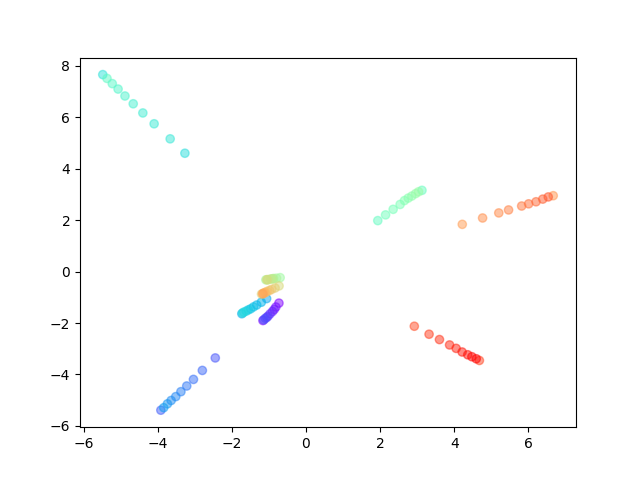
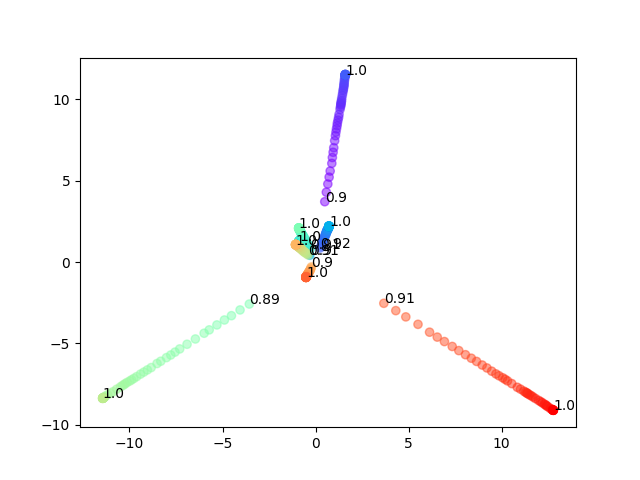
draw multiple layers in optim process

diff --git a/hw1/vis/hw1-2/plot_optim_process.py b/hw1/vis/hw1-2/plot_optim_process.py
@@ -6,32 +6,64 @@ import numpy as np
 from model.model import CNN2 
 from sklearn.decomposition import PCA
 import matplotlib.pyplot as plt
+import matplotlib.cm as cm
 
 if __name__ == '__main__':
     
     root_folder = os.path.join('../../saved/1-2-1/')
-    weight_list = []
+    w_list = []
+    cw_list = [] # convolution weight
+    acc = [] # record the acc
 
     for base_folder in os.listdir(root_folder):
         # we need to iterate each epoch by order
         file_list = os.listdir(os.path.join(root_folder, base_folder))
         # filter filenames so that it only contains checkpoint_x.pth
         file_list = list(filter(lambda x: x.startswith('checkpoint'), file_list))
+        
         for file in file_list:
             checkpoint = torch.load(os.path.join(root_folder, base_folder, file))
             state = checkpoint['state_dict']
+
+            logger = checkpoint['logger']
+            acc.append(logger[-1]['my_metric']) # take the last one
+            
             w_arr = [w.flatten() for key, w in state.items()]
             w_flat = torch.cat(w_arr, dim = 0)
-            weight_list.append(w_flat.data.cpu().numpy())
-
-    weight_list = np.array(weight_list)
+            w_list.append(w_flat.data.cpu().numpy())
+            # for layer 1
+            cw_arr = [w.flatten() for key, w in state.items() if key.startswith('conv.3.')]
+            cw_flat = torch.cat(cw_arr, dim = 0)
+            cw_list.append(cw_flat.data.cpu().numpy())
+    
+    plt.figure()
+    fig, ax = plt.subplots()
+    w_list = np.array(w_list)
     pca = PCA(n_components = 2)
-
-    weight_list = pca.fit_transform(weight_list)
-
-    x = [x for (x, y) in weight_list]
-    y = [y for (x, y) in weight_list]
-    color = np.linspace(0, 1, len(weight_list))
+    w_list = pca.fit_transform(w_list)
+    x = [x for (x, y) in w_list]
+    y = [y for (x, y) in w_list]
+    color = np.linspace(0, 1, len(w_list))
     plt.scatter(x, y, cmap = 'rainbow', c = color, alpha=0.5)
-    logger = checkpoint['logger']
+
+    cmap = cm.get_cmap('rainbow')
+    for i, n in enumerate(acc):
+        if i % 50 == 0 or i % 50 == 49:
+            ax.annotate(round(n, 2), (x[i], y[i]))
     plt.savefig('weight_scatter.png')
+
+    plt.figure()
+    fig, ax = plt.subplots()
+    cw_list = np.array(cw_list)
+    pca = PCA(n_components = 2)
+    cw_list = pca.fit_transform(cw_list)
+    x = [x for (x, y) in cw_list]
+    y = [y for (x, y) in cw_list]
+    color = np.linspace(0, 1, len(cw_list))
+    plt.scatter(x, y, cmap = 'rainbow', c = color, alpha=0.5)
+
+    cmap = cm.get_cmap('rainbow')
+    for i, n in enumerate(acc):
+        if i % 50 == 0 or i % 50 == 49:
+            ax.annotate(round(n, 2), (x[i], y[i]))
+    plt.savefig('conv_weight_scatter.png')

diff --git a/hw1/train.py b/hw1/train.py
@@ -9,6 +9,19 @@ import model.model as module_arch
 from trainer import Trainer
 from utils import Logger
 
+def handle_args(config, args):
+    # use argument to overwrite the original config setting
+    if args.type != None:
+        config['arch']['type'] = args.type
+        config['name'] = args.type
+    if args.name != None:
+        config['name'] = args.name
+    if args.save != None:
+        config['trainer']['save_dir'] = args.save
+    if args.epoch != None:
+        config['trainer']['epochs'] = int(args.epoch)
+
+    return config
 
 def get_instance(module, name, config, *args):
     return getattr(module, config[name]['type'])(*args, **config[name]['args'])
@@ -52,15 +65,18 @@ if __name__ == '__main__':
                            help='indices of GPUs to enable (default: all)')
     parser.add_argument('--type', default=None, type=str,
                            help='model type')
+    parser.add_argument('--name', default=None, type=str,
+                           help='model name')
+    parser.add_argument('--save', default=None, type=str,
+                           help='save dir')
+    parser.add_argument('--epoch', default=None, type=str,
+                           help='epoch number')
     args = parser.parse_args()
 
     if args.config:
         # load config file
         config = json.load(open(args.config))
-        # use argument to overwrite the original config setting
-        if args.type != None:
-            config['name'] = args.type
-            config['arch']['type'] = args.type
+        config = handle_args(config, args)
         path = os.path.join(config['trainer']['save_dir'], config['name'])
     elif args.resume:
         # load config file from checkpoint, in case new config file is not given.

diff --git a/hw1/utils/logger.py b/hw1/utils/logger.py
@@ -23,4 +23,8 @@ class Logger:
         return len(self.entries)
         
     def __getitem__(self, key):
-        return self.entries[key]
+        if key == -1: # indicate that we want to get the last one
+            return self.entries[self.__len__()]
+        else:
+            return self.entries[key]
+    

diff --git a/hw1/README.md b/hw1/README.md
@@ -31,7 +31,7 @@ cd vis/hw1-1
 python3 plot_loss_acc.py
 ```
 ## 1-2
-### 1-2-1: show that different optimization process will converge to the same point
+### 1-2-1: observe gradient norm during training
 1. train the model
 ```
 # mnist
